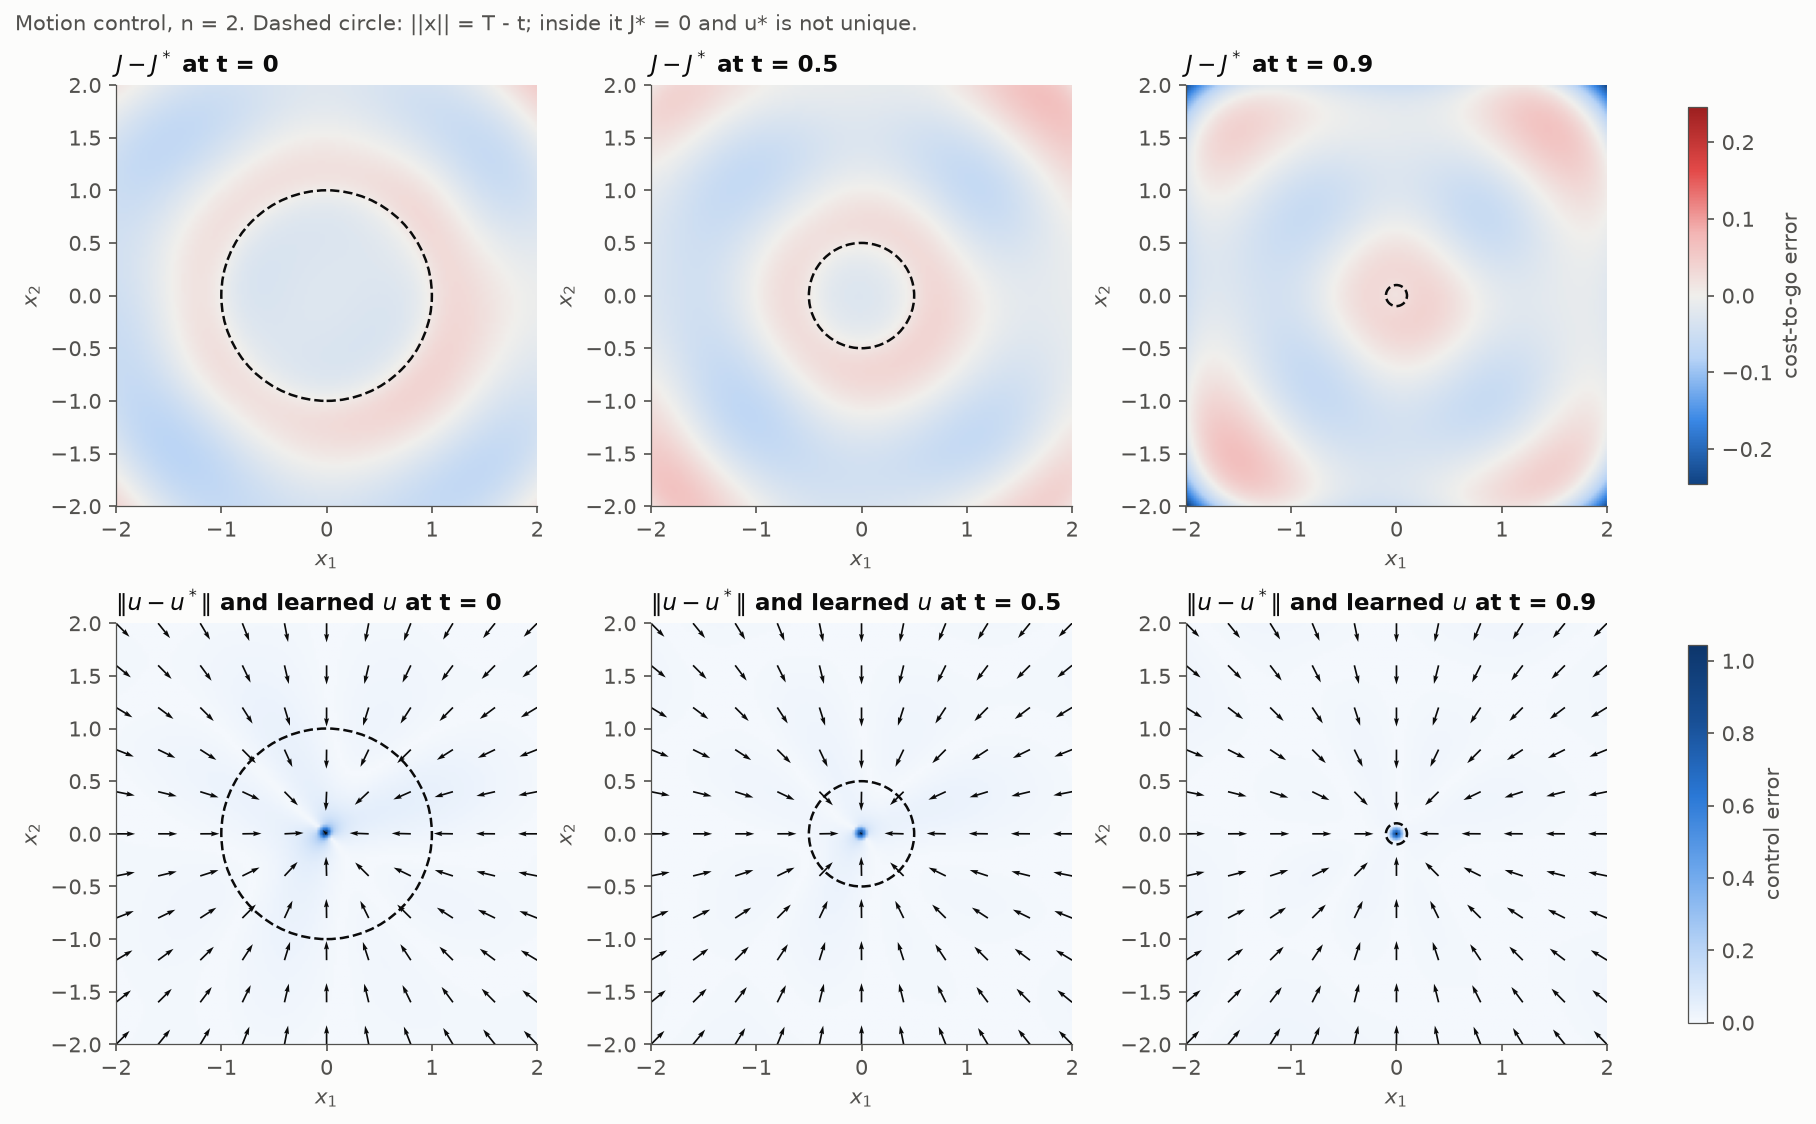
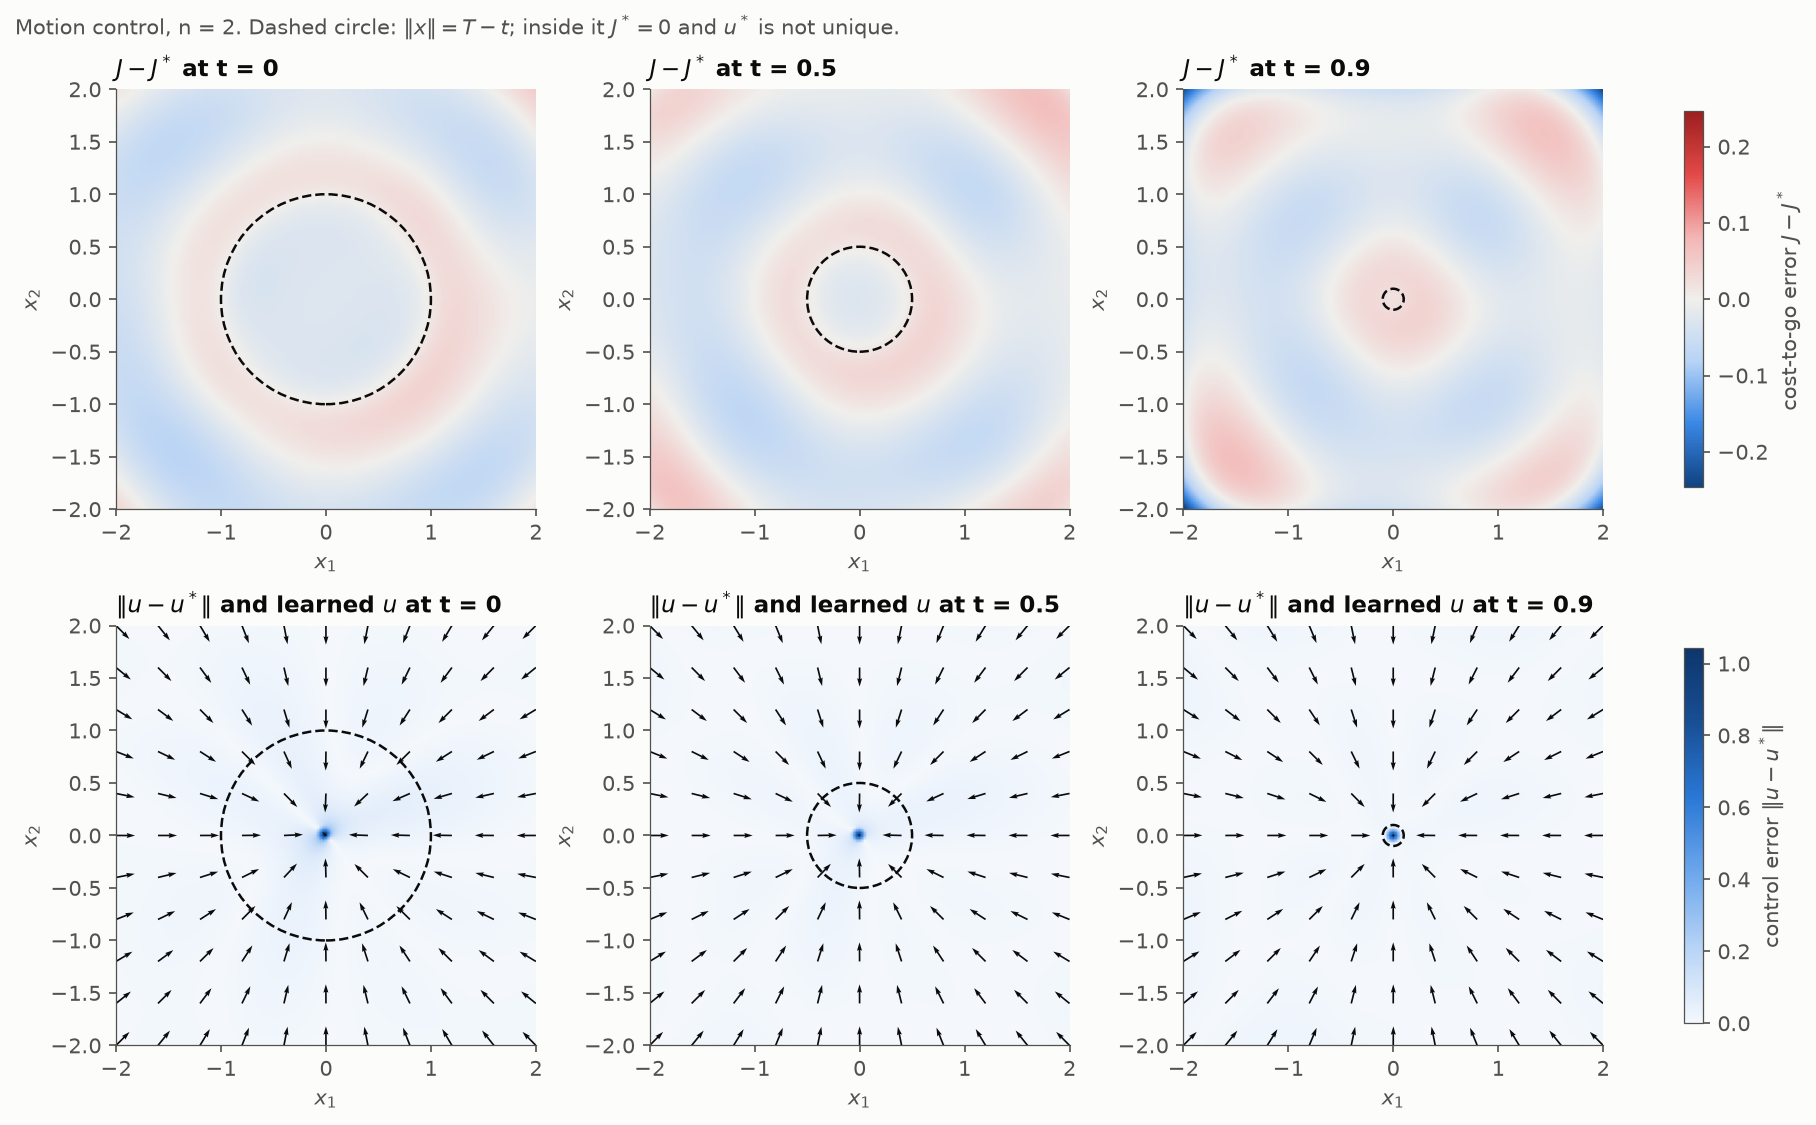
Clarify the result figures
- Split the dimension plot in two: v1.1 against the original code, and
  the loss-term ablation, each next to its table in the README. Axes are
  in percent like the tables, overlapping series are offset so none is
  hidden, and the control-error panel (in no table) is dropped.
- Label the training-curve x axis by stage and the range of t sampled.
- Resource allocation: draw the learned paths in one color and add the
  original code's closed-loop control, which switches more sharply.
- Typeset the 2-D slice subtitle and colorbar labels as math.

diff --git a/motion_control/evaluate.py b/motion_control/evaluate.py
@@ -57,26 +57,28 @@ def evaluate(problem: MotionControl, policy, value) -> Dict[str, float]:
     }
 
 
-def plot_error_vs_dimension(metrics: pd.DataFrame, path: Path) -> None:
+def plot_metrics_vs_dimension(metrics: pd.DataFrame, variants, path: Path) -> None:
+    """Cost-to-go error and excess cost against dimension for the given variants (bars span the seeds)."""
     panels = [
         ("value_rel_err", "Cost-to-go error", r"$\|J - J^*\| \,/\, \|J^*\|$"),
-        ("policy_err", "Control error", r"mean $\|u - u^*\|^2$ where $u^*$ is unique"),
         ("cost_gap", "Excess cost of the learned policy", r"$(\mathbb{E}[C] - \mathbb{E}[J^*]) \,/\, \mathbb{E}[J^*]$"),
     ]
-    fig, axes = plt.subplots(1, len(panels), figsize=(13, 3.8))
+    variants = [v for v in variants if (metrics.variant == v).any()]
+    fig, axes = plt.subplots(1, len(panels), figsize=(10, 3.8))
     for ax, (column, title, ylabel) in zip(axes, panels):
-        for variant, style in plotting.VARIANT_STYLE.items():
-            runs = metrics[metrics.variant == variant]
-            if runs.empty:
-                continue
-            stats = runs.groupby("dim")[column].agg(["mean", "min", "max"])
+        for i, variant in enumerate(variants):
+            style = plotting.VARIANT_STYLE[variant]
+            stats = metrics[metrics.variant == variant].groupby("dim")[column].agg(["mean", "min", "max"])
+            # Offset each variant slightly so overlapping error bars stay readable.
+            offset = 0.12 * (i - (len(variants) - 1) / 2)
             ax.errorbar(
-                stats.index, stats["mean"],
+                stats.index + offset, stats["mean"],
                 yerr=[stats["mean"] - stats["min"], stats["max"] - stats["mean"]],
                 color=style["color"], marker=style["marker"], ls=style["ls"], label=style["label"], capsize=3,
             )
-        ax.set_yscale("log")
+        plotting.percent_log_axis(ax)
         ax.set_xticks(sorted(metrics.dim.unique()))
+        ax.grid(False, axis="x")
         ax.set_xlabel("State dimension n")
         ax.set_ylabel(ylabel)
         ax.set_title(title, loc="left")
@@ -123,25 +125,36 @@ def plot_slices(problem: MotionControl, policy, value, path: Path, times=(0.0, 0
             ax.set_xlabel("$x_1$")
             ax.set_ylabel("$x_2$")
             ax.grid(False)
-    fig.colorbar(im_j, ax=axes[0, :], shrink=0.85, label="cost-to-go error")
-    fig.colorbar(im_u, ax=axes[1, :], shrink=0.85, label="control error")
-    fig.suptitle("Motion control, n = 2. Dashed circle: ||x|| = T - t; inside it J* = 0 and u* is not unique.",
+    fig.colorbar(im_j, ax=axes[0, :], shrink=0.85, label="cost-to-go error $J - J^*$")
+    fig.colorbar(im_u, ax=axes[1, :], shrink=0.85, label=r"control error $\|u - u^*\|$")
+    fig.suptitle(r"Motion control, n = 2. Dashed circle: $\|x\| = T - t$; inside it $J^* = 0$ and $u^*$ is not unique.",
                  x=0.0, ha="left", fontsize=10, color=plotting.INK_SECONDARY)
     fig.savefig(path)
     plt.close(fig)
 
 
-def plot_training_curves(histories: Dict[int, pd.DataFrame], path: Path, window: int = 50) -> None:
-    panels = [("hjb", "HJB residual, mean $r^2$"), ("value_fit", "Cost-to-go fit to simulated cost")]
+def plot_training_curves(histories: Dict[int, pd.DataFrame], path: Path, T: float, window: int = 50) -> None:
+    """Smoothed HJB residual and value-fit losses, with the x axis marked by training stage."""
+    panels = [("hjb", "HJB residual, mean $r^2$"), ("value_fit", r"Cost-to-go fit to simulated cost, mean $(J - C)^2$")]
+    stages = next(iter(histories.values())).groupby("stage", sort=False)
+    num_stages = stages.ngroups
     fig, axes = plt.subplots(1, len(panels), figsize=(11, 3.6), sharex=True)
     for ax, (column, title) in zip(axes, panels):
         for i, (dim, history) in enumerate(sorted(histories.items())):
             smooth = history[column].rolling(window, min_periods=1).mean()
             ax.plot(history.index, smooth, color=plotting.SERIES[i], label=f"n = {dim}", lw=1.4)
-        for boundary in history.index[history.stage.diff().fillna(0) != 0]:
-            ax.axvline(boundary, color=plotting.GRID, lw=1.0, zorder=0)
+        # Label each stage by the range of t it samples instead of by epoch number.
+        ticks, labels = [], []
+        for k, epochs in stages.groups.items():
+            if epochs.min() > 0:
+                ax.axvline(epochs.min(), color=plotting.INK_SECONDARY, lw=0.6, alpha=0.5, zorder=0)
+            ticks.append(epochs.to_numpy().mean())
+            labels.append(f"[{T * k / num_stages:g}, {T:g}]")
+        ax.set_xticks(ticks, labels)
+        ax.tick_params(axis="x", length=0)
+        ax.grid(False, axis="x")
         ax.set_yscale("log")
-        ax.set_xlabel("Epoch (stages widen the horizon backward from T)")
+        ax.set_xlabel(f"Training stage: range of t sampled ({len(epochs)} epochs each)")
         ax.set_title(title, loc="left")
     axes[0].legend(ncol=2)
     fig.tight_layout()
@@ -169,14 +182,16 @@ def main() -> None:
     summary.reset_index().to_csv(RESULTS_DIR / "summary.csv", index=False, float_format="%.4g")
     print(summary[[f"{m}_mean" for m in METRICS]].to_string(float_format="%.4g"))
 
-    plot_error_vs_dimension(metrics, FIGURE_DIR / "error_vs_dimension.png")
+    plot_metrics_vs_dimension(metrics, ["full", "original"], FIGURE_DIR / "comparison.png")
+    plot_metrics_vs_dimension(metrics, ["full", "no_hamiltonian", "no_hjb_grad", "no_hjb"],
+                              FIGURE_DIR / "ablation.png")
     if ("full", "n2", 0) in runs:
         problem, policy, value, _ = load_run(runs[("full", "n2", 0)], MotionControl)
         plot_slices(problem, policy, value, FIGURE_DIR / "n2_slices.png")
     histories = {int(tag[1:]): pd.read_csv(path.with_suffix(".csv"), index_col="epoch")
                  for (variant, tag, seed), path in runs.items() if variant == "full" and seed == 0}
     if histories:
-        plot_training_curves(histories, FIGURE_DIR / "training_curves.png")
+        plot_training_curves(histories, FIGURE_DIR / "training_curves.png", MotionControl().T)
 
 
 if __name__ == "__main__":

diff --git a/resource_allocation/evaluate.py b/resource_allocation/evaluate.py
@@ -84,15 +84,25 @@ def evaluate(problem: ResourceAllocation, policy, value) -> Dict[str, float]:
 
 @torch.no_grad()
 def plot_solution(problem: ResourceAllocation, policy, value, path: Path, reference=None) -> None:
-    """Closed-loop control paths and the learned reward-to-go against the exact solution."""
+    """Closed-loop control paths and the learned reward-to-go against the exact solution.
+
+    reference: optional (policy, value) of the original code, drawn in gray for comparison.
+    """
     fig, (ax_u, ax_v) = plt.subplots(1, 2, figsize=(12, 4.2))
+    learned = {"color": plotting.SERIES[0], "lw": 1.4}
+    original = {"color": plotting.REFERENCE, "lw": 1.4}
+    exact = {"color": plotting.INK, "ls": "--", "lw": 1.6}
 
     x0 = torch.tensor([[1.0], [2.0], [3.0], [4.0]])
     t, _, u = closed_loop_paths(problem, policy, x0)
     u_star = problem.optimal_control(t[:, None], torch.ones(len(t), 1))[:, 0]
-    ax_u.plot(t, u_star, color=plotting.INK, ls="--", lw=1.6, label="exact $u^*$")
+    ax_u.plot(t, u_star, label="exact $u^*$", **exact)
     for i in range(len(x0)):
-        ax_u.plot(t, u[:, i], color=plotting.SERIES[i], label=f"learned, $x_0$ = {x0[i, 0]:g}")
+        label = "learned, $x_0$ = " + ", ".join(f"{v:g}" for v in x0[:, 0].tolist()) if i == 0 else None
+        ax_u.plot(t, u[:, i], label=label, **learned)
+    if reference is not None:
+        t_ref, _, u_ref = closed_loop_paths(problem, reference[0], torch.tensor([[3.0]]))
+        ax_u.plot(t_ref, u_ref[:, 0], label="original code, $x_0$ = 3", **original)
     ax_u.set_xlabel("Time t")
     ax_u.set_ylabel("Reinvested fraction u")
     ax_u.set_ylim(-0.05, 1.05)
@@ -100,20 +110,21 @@ def plot_solution(problem: ResourceAllocation, policy, value, path: Path, refere
     ax_u.legend(loc="center left")
 
     t = torch.linspace(0, problem.T, 401)[:, None]
-    ax_v.plot(t, problem.value_coefficient(t), color=plotting.INK, ls="--", lw=1.6, label=r"exact $\phi(t)$")
-    for i, x_val in enumerate((1.0, 3.0, 5.0)):
-        x = torch.full_like(t, x_val)
-        ax_v.plot(t, -value(t, x) / x_val, color=plotting.SERIES[i], label=f"learned, x = {x_val:g}")
+    ax_v.plot(t, problem.value_coefficient(t), label=r"exact $\phi(t)$", **exact)
+    x_values = (1.0, 3.0, 5.0)
+    for i, x_val in enumerate(x_values):
+        label = "learned, x = " + ", ".join(f"{v:g}" for v in x_values) if i == 0 else None
+        ax_v.plot(t, -value(t, torch.full_like(t, x_val)) / x_val, label=label, **learned)
     if reference is not None:
-        ref_value, ref_label = reference
-        x = torch.full_like(t, 3.0)
-        ax_v.plot(t, -ref_value(t, x) / 3.0, color=plotting.REFERENCE, lw=1.4, label=f"{ref_label}, x = 3")
+        ax_v.plot(t, -reference[1](t, torch.full_like(t, 3.0)) / 3.0, label="original code, x = 3", **original)
     ax_v.set_xlabel("Time t")
-    ax_v.set_ylabel("Reward-to-go per unit production, V(t, x) / x")
-    ax_v.set_title(r"Reward-to-go: exact $V^* = x\,\phi(t)$", loc="left")
+    ax_v.set_ylabel(r"$V(t, x) \,/\, x$")
+    ax_v.set_title(r"Reward-to-go per unit production, exact $V^* = x\,\phi(t)$", loc="left")
     ax_v.legend()
     for ax in (ax_u, ax_v):
-        ax.axvline(problem.switching_time, color=plotting.GRID, lw=1.0, zorder=0)
+        ax.axvline(problem.switching_time, color=plotting.INK_SECONDARY, lw=0.6, alpha=0.5, zorder=0)
+        ax.text(problem.switching_time, 1.0, " $t_s$", transform=ax.get_xaxis_transform(),
+                va="top", color=plotting.INK_SECONDARY)
     fig.tight_layout()
     fig.savefig(path)
     plt.close(fig)
@@ -143,7 +154,7 @@ def main() -> None:
         problem, policy, value, _ = load_run(runs[("full", "ra", 0)], ResourceAllocation)
         reference = None
         if ("original", "ra", 0) in runs:
-            reference = (load_run(runs[("original", "ra", 0)], ResourceAllocation)[2], "original code")
+            reference = load_run(runs[("original", "ra", 0)], ResourceAllocation)[1:3]
         plot_solution(problem, policy, value, FIGURE_DIR / "solution.png", reference)
 
 

diff --git a/neural_hjb/plotting.py b/neural_hjb/plotting.py
@@ -1,11 +1,14 @@
 """Shared figure style: one categorical order, recessive axes, blue sequential and blue-red diverging maps."""
 
+import math
+
 import matplotlib
 
 matplotlib.use("Agg")
 
 import matplotlib.pyplot as plt  # noqa: E402
 from matplotlib.colors import LinearSegmentedColormap  # noqa: E402
+from matplotlib.ticker import FuncFormatter, NullFormatter  # noqa: E402
 
 SERIES = ["#2a78d6", "#eb6834", "#1baf7a", "#eda100", "#e87ba4", "#008300", "#6250d6", "#e34948"]
 REFERENCE = "#8a8984"  # exact solutions and the original code, drawn as neutral references
@@ -23,14 +26,25 @@ DIVERGING = LinearSegmentedColormap.from_list(
 
 # Fixed color per training variant so every figure agrees.
 # The two variants without the Hamiltonian term train identical policies, so 'no_hjb'
-# is dashed to keep both visible where their curves coincide.
+# is dashed to keep both visible where their curves nearly coincide.
 VARIANT_STYLE = {
-    "full": {"label": "Full method", "color": SERIES[0], "marker": "o", "ls": "-"},
+    "full": {"label": "Full method (v1.1)", "color": SERIES[0], "marker": "o", "ls": "-"},
     "no_hamiltonian": {"label": "No Hamiltonian term", "color": SERIES[1], "marker": "v", "ls": "-"},
     "no_hjb_grad": {"label": "No residual-gradient terms", "color": SERIES[2], "marker": "s", "ls": "-"},
     "no_hjb": {"label": "No HJB terms", "color": SERIES[3], "marker": "^", "ls": "--"},
-    "original": {"label": "Original code", "color": REFERENCE, "marker": "D", "ls": "-"},
+    "original": {"label": "Original code (v1.0)", "color": REFERENCE, "marker": "D", "ls": "-"},
 }
+
+
+def percent_log_axis(ax) -> None:
+    """Log-scale the y axis of a plotted Axes and label it in percent, with ticks at 1, 2, 5 x 10^k."""
+    ax.set_yscale("log")
+    lo, hi = ax.get_ylim()
+    ticks = [m * 10.0 ** k for k in range(math.floor(math.log10(lo)), math.ceil(math.log10(hi)) + 1)
+             for m in (1, 2, 5)]
+    ax.set_yticks([v for v in ticks if lo <= v <= hi])
+    ax.yaxis.set_major_formatter(FuncFormatter(lambda v, _: f"{100 * v:.3g}%"))
+    ax.yaxis.set_minor_formatter(NullFormatter())
 
 
 def apply_style() -> None:

diff --git a/README.md b/README.md
@@ -68,14 +68,14 @@ All numbers are means over 3 seeds on 4096 fixed test points $(t, x)$ with $t$ u
 
 The v1.0 policies were already close to optimal (and marginally better at n = 6); the main gain is the cost-to-go at n = 8, which v1.0 had off by 23%. As a mean-squared error (the metric the v1.0 README reported), the v1.1 cost-to-go reaches 0.0012, 0.0040, 0.015 and 0.051 for n = 2, 4, 6, 8, against 0.0012, 0.0044, 0.032 and 4.6 for the retrained v1.0 code.
 
-![Errors against dimension for each training variant](motion_control/results/figures/error_vs_dimension.png)
-*Cost-to-go error, control error (mean $\lVert u - u^* \rVert^2$ where $u^*$ is unique) and excess cost against dimension, for the method, the ablations described below and the v1.0 code. Bars span the 3 seeds.*
+![Cost-to-go error and excess cost against dimension, v1.1 and v1.0](motion_control/results/figures/comparison.png)
+*The table above as a function of dimension. Points are means over 3 seeds and bars span the seeds.*
 
 ![Cost-to-go and control errors in 2-D](motion_control/results/figures/n2_slices.png)
 *n = 2, full method, seed 0. Top: cost-to-go error, within ±0.25 everywhere and largest in the corners of the box near $T$. Bottom: control error with the learned control field; the error is confined to the origin, where $u^*$ is undefined.*
 
 ![Training losses](motion_control/results/figures/training_curves.png)
-*HJB residual and cost-to-go fit during training (full method, seed 0). Each 1000 epochs is a stage; each stage extends the horizon backward by $T/5$.*
+*HJB residual and cost-to-go fit during training (full method, seed 0), smoothed over 50 epochs. Each stage extends the range of sampled $t$ backward by $T/5$.*
 
 ### Resource allocation
 
@@ -89,7 +89,7 @@ The switching-time error is $\lvert t_{\text{switch}} - t_s \rvert$ for closed-l
 The v1.0 reward-to-go was wrong because its HJB loss was: at the exact solution its three residual terms evaluate to 21, 1.8 and 43 instead of 0. Its policy was nonetheless accurate, because the policy learned from the simulated reward, which was correct. It also switches more sharply than v1.1's, which smooths the switch over a few tenths of a time unit and gives up about 0.1% of the reward. Training with 100 instead of 40 RK4 steps per rollout did not sharpen it.
 
 ![Learned control and reward-to-go](resource_allocation/results/figures/solution.png)
-*Full method, seed 0. Left: control along closed-loop paths from four initial states. Right: learned reward-to-go per unit production against the exact $\phi(t)$, which the three learned curves follow closely, and the v1.0 network's (gray).*
+*Full method, seed 0, with the v1.0 code (seed 0) in gray. Left: control along closed-loop paths; the four learned paths from $x_0 = 1, \dots, 4$ nearly coincide. Right: learned reward-to-go divided by $x$, which should match the exact $\phi(t)$ for every $x$.*
 
 ### What each loss term contributes
 
@@ -103,6 +103,9 @@ Every variant below was trained with the same seeds and settings, with the named
 | No `hamiltonian` | 1.6% / 0.0011% | 1.3% / 0.0010% | 2.1% / 0.0011% | 3.1% / 0.0009% |
 | No `hjb_dt`, `hjb_dx` | 1.8% / 0.0029% | 1.9% / 0.012% | 3.1% / 0.036% | 3.5% / 0.042% |
 | No HJB terms (only `terminal`, `value_fit`, `policy`) | 2.4% / 0.0011% | 2.7% / 0.0010% | 3.4% / 0.0011% | 4.6% / 0.0009% |
+
+![Cost-to-go error and excess cost against dimension for each ablation](motion_control/results/figures/ablation.png)
+*The motion-control table above as a function of dimension (bars span the 3 seeds). The two variants without the `hamiltonian` term train identical policies, so their excess costs coincide.*
 
 **Resource allocation**:
 
